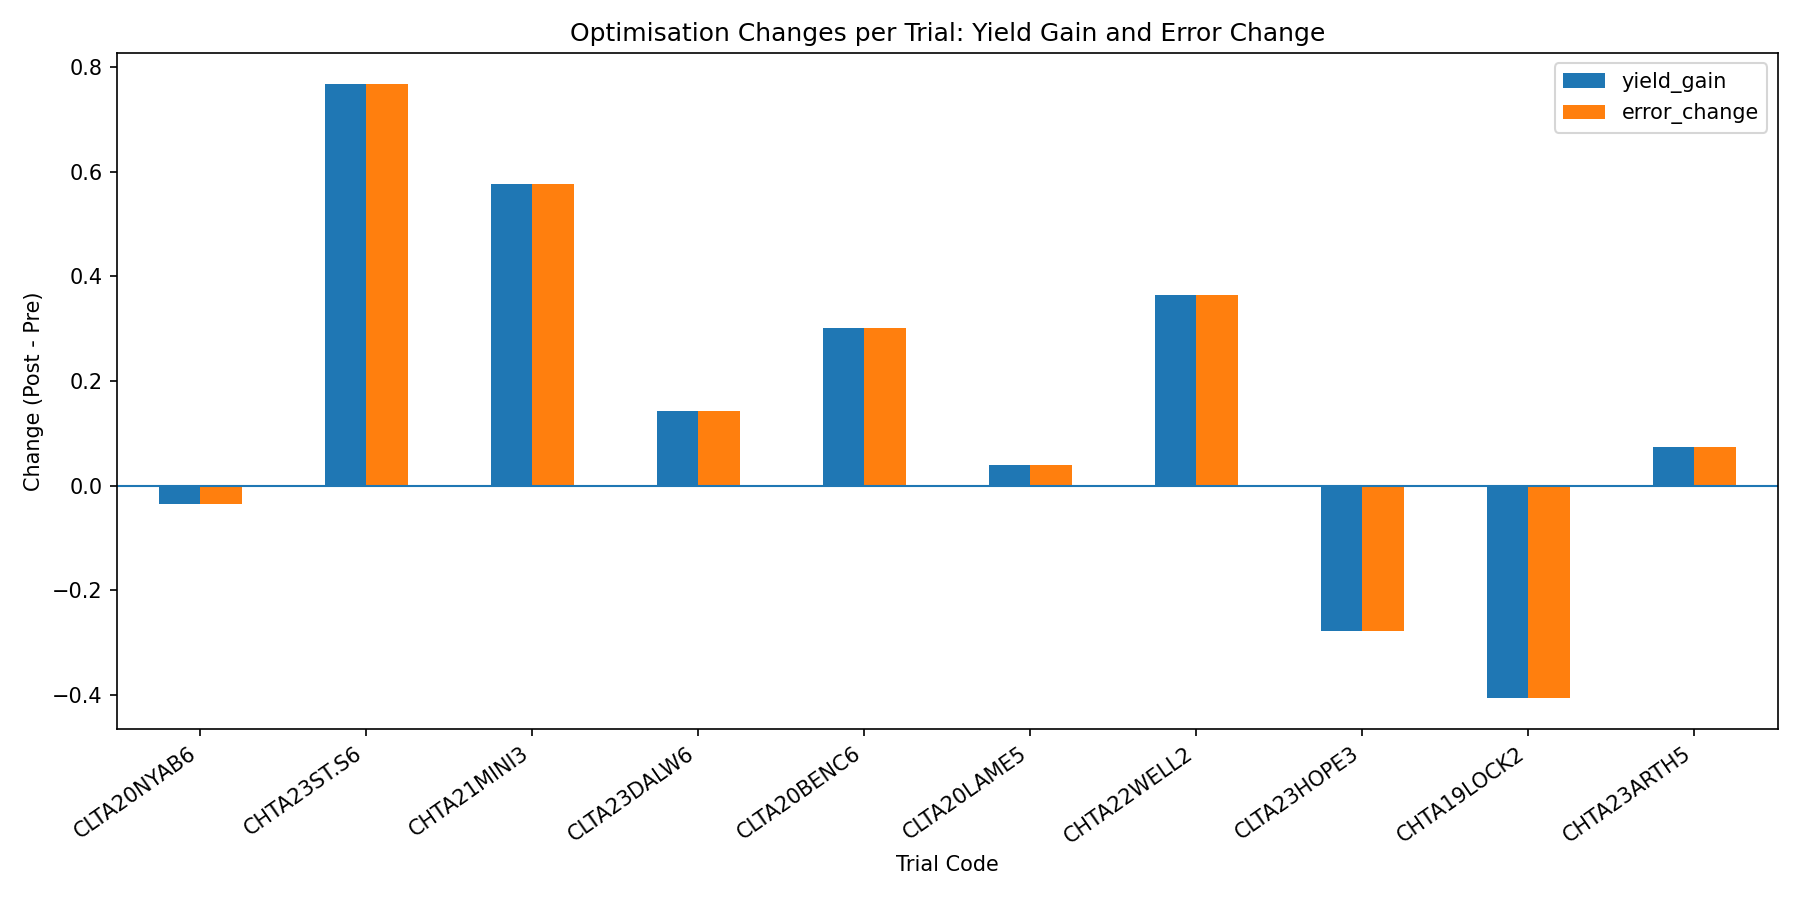
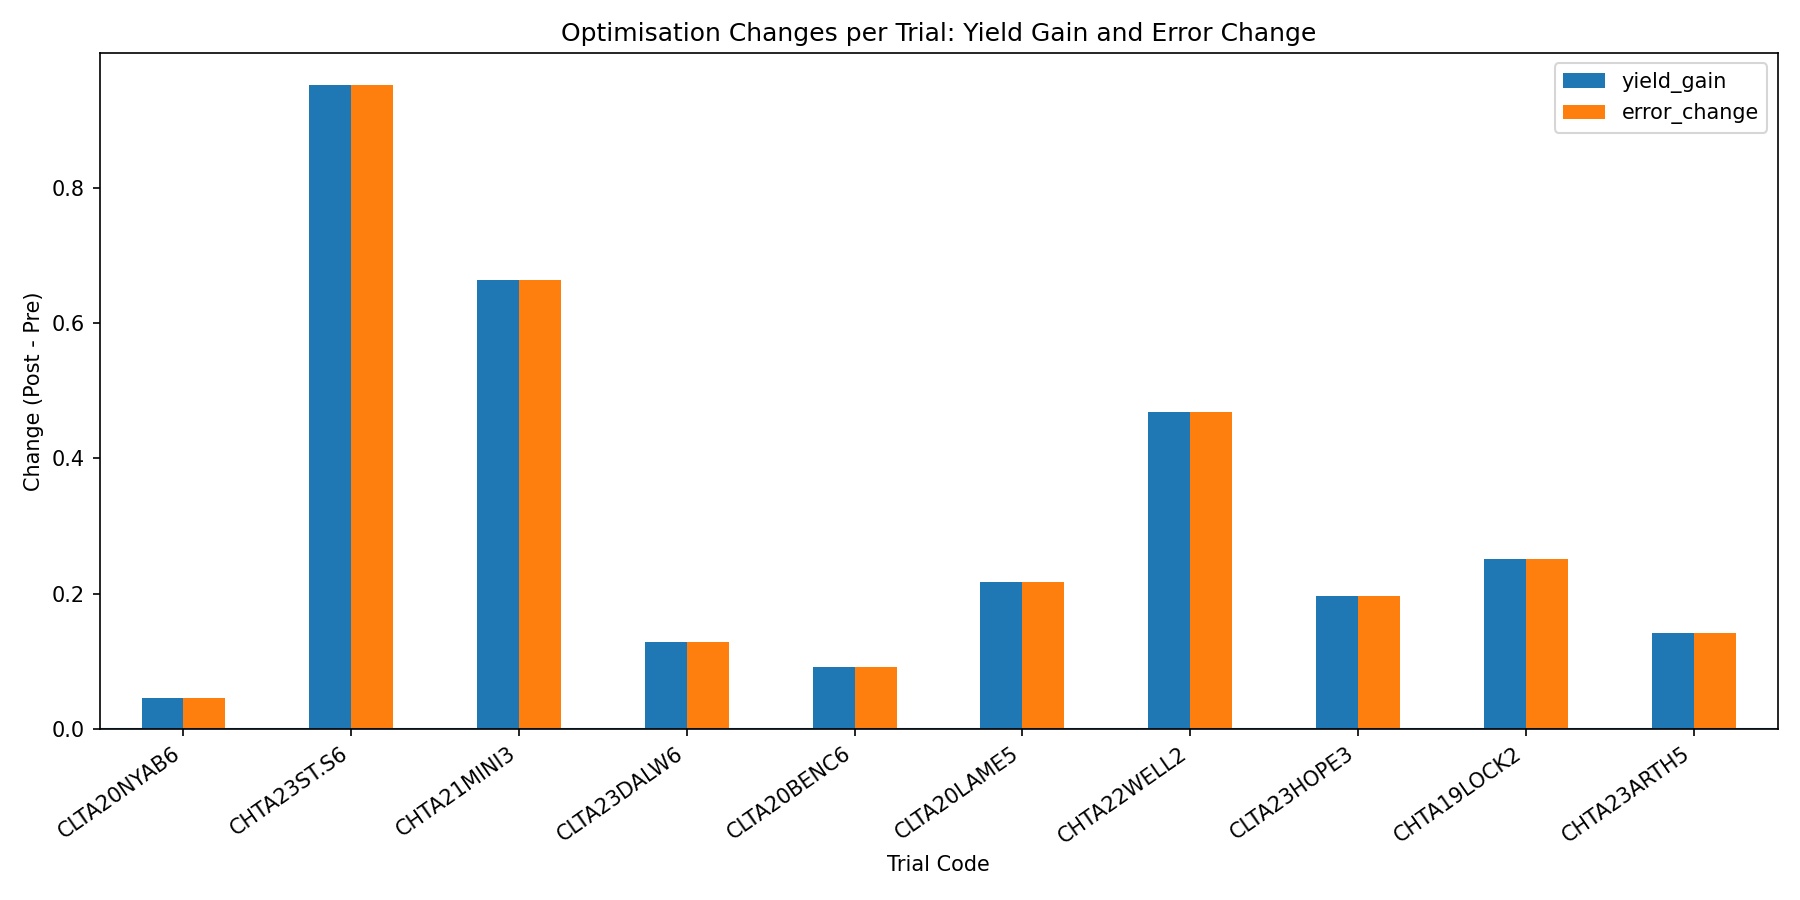
plot per trial

diff --git a/NVTAnalysis/plot_params_per_trial.py b/NVTAnalysis/plot_params_per_trial.py
@@ -1,0 +1,88 @@
+from pandas import read_csv, DataFrame
+from json import load
+from matplotlib import pyplot as plt
+import numpy as np
+
+def get_trial_codes():
+    df_Hyola_Blazer_TT = read_csv('data/selected_10_Hyola_Blazer_TT.csv')
+    return df_Hyola_Blazer_TT['TrialCode']
+
+def build_paramaters_per_trial_list(trial_codes: list):
+    params_per_trial = []
+    for trial_code in trial_codes:
+        params_file = f'results/{trial_code}/optimised_parameters.json'
+        with open(params_file, 'r') as f:
+            params_per_trial += [load(f)]
+    return params_per_trial
+
+
+def plot_params_per_trial():
+    trial_codes = get_trial_codes()
+    params_per_trial = build_paramaters_per_trial_list(trial_codes)
+
+    # Convert to numpy array for easier manipulation
+    params_array = np.array(params_per_trial)
+
+    # Phase names corresponding to the 5 parameters
+    phase_names = ['Germination', 'Vegetative', 'Anthesis', 'Grainfill', 'Maturity']
+
+    # Create figure with multiple subplots
+    fig, axes = plt.subplots(2, 1, figsize=(14, 10))
+
+    # Plot 1: Scatter plot showing all parameters across sites (no implied sequence)
+    ax1 = axes[0]
+    x_positions = np.arange(len(trial_codes))
+    colors = plt.cm.Set2(np.linspace(0, 1, 5))
+
+    for i, phase in enumerate(phase_names):
+        ax1.scatter(x_positions, params_array[:, i], label=phase, s=120, alpha=0.7,
+                   color=colors[i], edgecolors='black', linewidth=0.5, zorder=3)
+
+    ax1.set_xlabel('Trial Site', fontsize=12)
+    ax1.set_ylabel('GDD Requirement (°C d)', fontsize=12)
+    ax1.set_title('Optimized GDD Requirements by Trial Site', fontsize=14, fontweight='bold')
+    ax1.set_xticks(x_positions)
+    ax1.set_xticklabels(trial_codes, rotation=45, ha='right')
+    ax1.legend(loc='upper left', fontsize=10, framealpha=0.9, ncol=2)
+    ax1.grid(True, alpha=0.3, linestyle='--', axis='y', zorder=1)
+
+    # Plot 2: Grouped bar chart
+    ax2 = axes[1]
+    bar_width = 0.15
+    x_positions = np.arange(len(trial_codes))
+
+    colors = plt.cm.Set3(np.linspace(0, 1, 5))
+
+    for i, phase in enumerate(phase_names):
+        offset = (i - 2) * bar_width
+        ax2.bar(x_positions + offset, params_array[:, i], bar_width,
+                label=phase, alpha=0.8, color=colors[i])
+
+    ax2.set_xlabel('Trial Site', fontsize=12)
+    ax2.set_ylabel('GDD Requirement (°C d)', fontsize=12)
+    ax2.set_title('Optimized GDD Requirements by Phase and Site (Grouped Bar Chart)', fontsize=14, fontweight='bold')
+    ax2.set_xticks(x_positions)
+    ax2.set_xticklabels(trial_codes, rotation=45, ha='right')
+    ax2.legend(loc='upper left', fontsize=10, framealpha=0.9)
+    ax2.grid(True, alpha=0.3, linestyle='--', axis='y')
+
+    plt.tight_layout()
+    plt.savefig('plots/params_per_trial.png', dpi=150, bbox_inches='tight')
+    print(f"Plot saved to plots/params_per_trial.png")
+    plt.show()
+
+    # Print summary statistics
+    print("\n=== Summary Statistics ===")
+    df_stats = DataFrame(params_array, columns=phase_names, index=trial_codes)
+    print("\nMean GDD requirements across all sites:")
+    print(df_stats.mean())
+    print("\nStandard deviation:")
+    print(df_stats.std())
+    print("\nMin values:")
+    print(df_stats.min())
+    print("\nMax values:")
+    print(df_stats.max())
+
+
+if __name__ == '__main__':
+    plot_params_per_trial()

diff --git a/NVTAnalysis/calibrate_priors.py b/NVTAnalysis/calibrate_priors.py
@@ -37,7 +37,7 @@ def calibrate_priors(
         )->np.ndarray:
     priors = np.array([0.05, 0.50, 0.20, 0.20])
     # bounds = np.array([[0.03, 0.10], [0.30, 0.60], [0.10, 0.30], [0.10, 0.30]])
-    bounds = np.array([[0.03, 0.10], [0.30, 0.50], [0.05, 0.25], [0.2, 0.30], [0, 0.30]])
+    bounds = np.array([[0.03, 0.10], [0.25, 0.4], [0.05, 0.25], [0.2, 0.30], [0, 0.30]])
 
     
     result = differential_evolution(
@@ -60,6 +60,6 @@ def test():
     tmp_dir = data_dir
     out_dir = data_dir
     experiment_df, queries = get_n_representative_sites(tmp_dir=tmp_dir, out_dir=out_dir)
-    calibrate_priors(queries[6], experiment_df)
+    calibrate_priors(queries[5], experiment_df)
 if __name__ == '__main__':
     test()

diff --git a/NVTAnalysis/compare_pre_and_post_calibration.py b/NVTAnalysis/compare_pre_and_post_calibration.py
@@ -442,10 +442,10 @@ def test():
 
     priors = np.array([0.09488161, 0.40916199, 0.17701807, 0.27063103, 0.2833466])
     priors = np.array([0.04112718, 0.40682115, 0.17449948, 0.27125969, 0.29341721])
-    priors = np.array([0.09095077, 0.33781626, 0.18560119, 0.29296343, 0.28275964])
+    priors = np.array([0.09095077, 0.33781626, 0.18560119, 0.29296343, 0.28275964]) # probably best one 
     for query in queries:
         compare_pre_and_post_calibration(priors, query, experiment_df)
-    compare_pre_and_post_calibration(priors, queries[1], experiment_df)
+    # compare_pre_and_post_calibration(priors, queries[5], experiment_df)
 
 if __name__ == '__main__':
     test()
